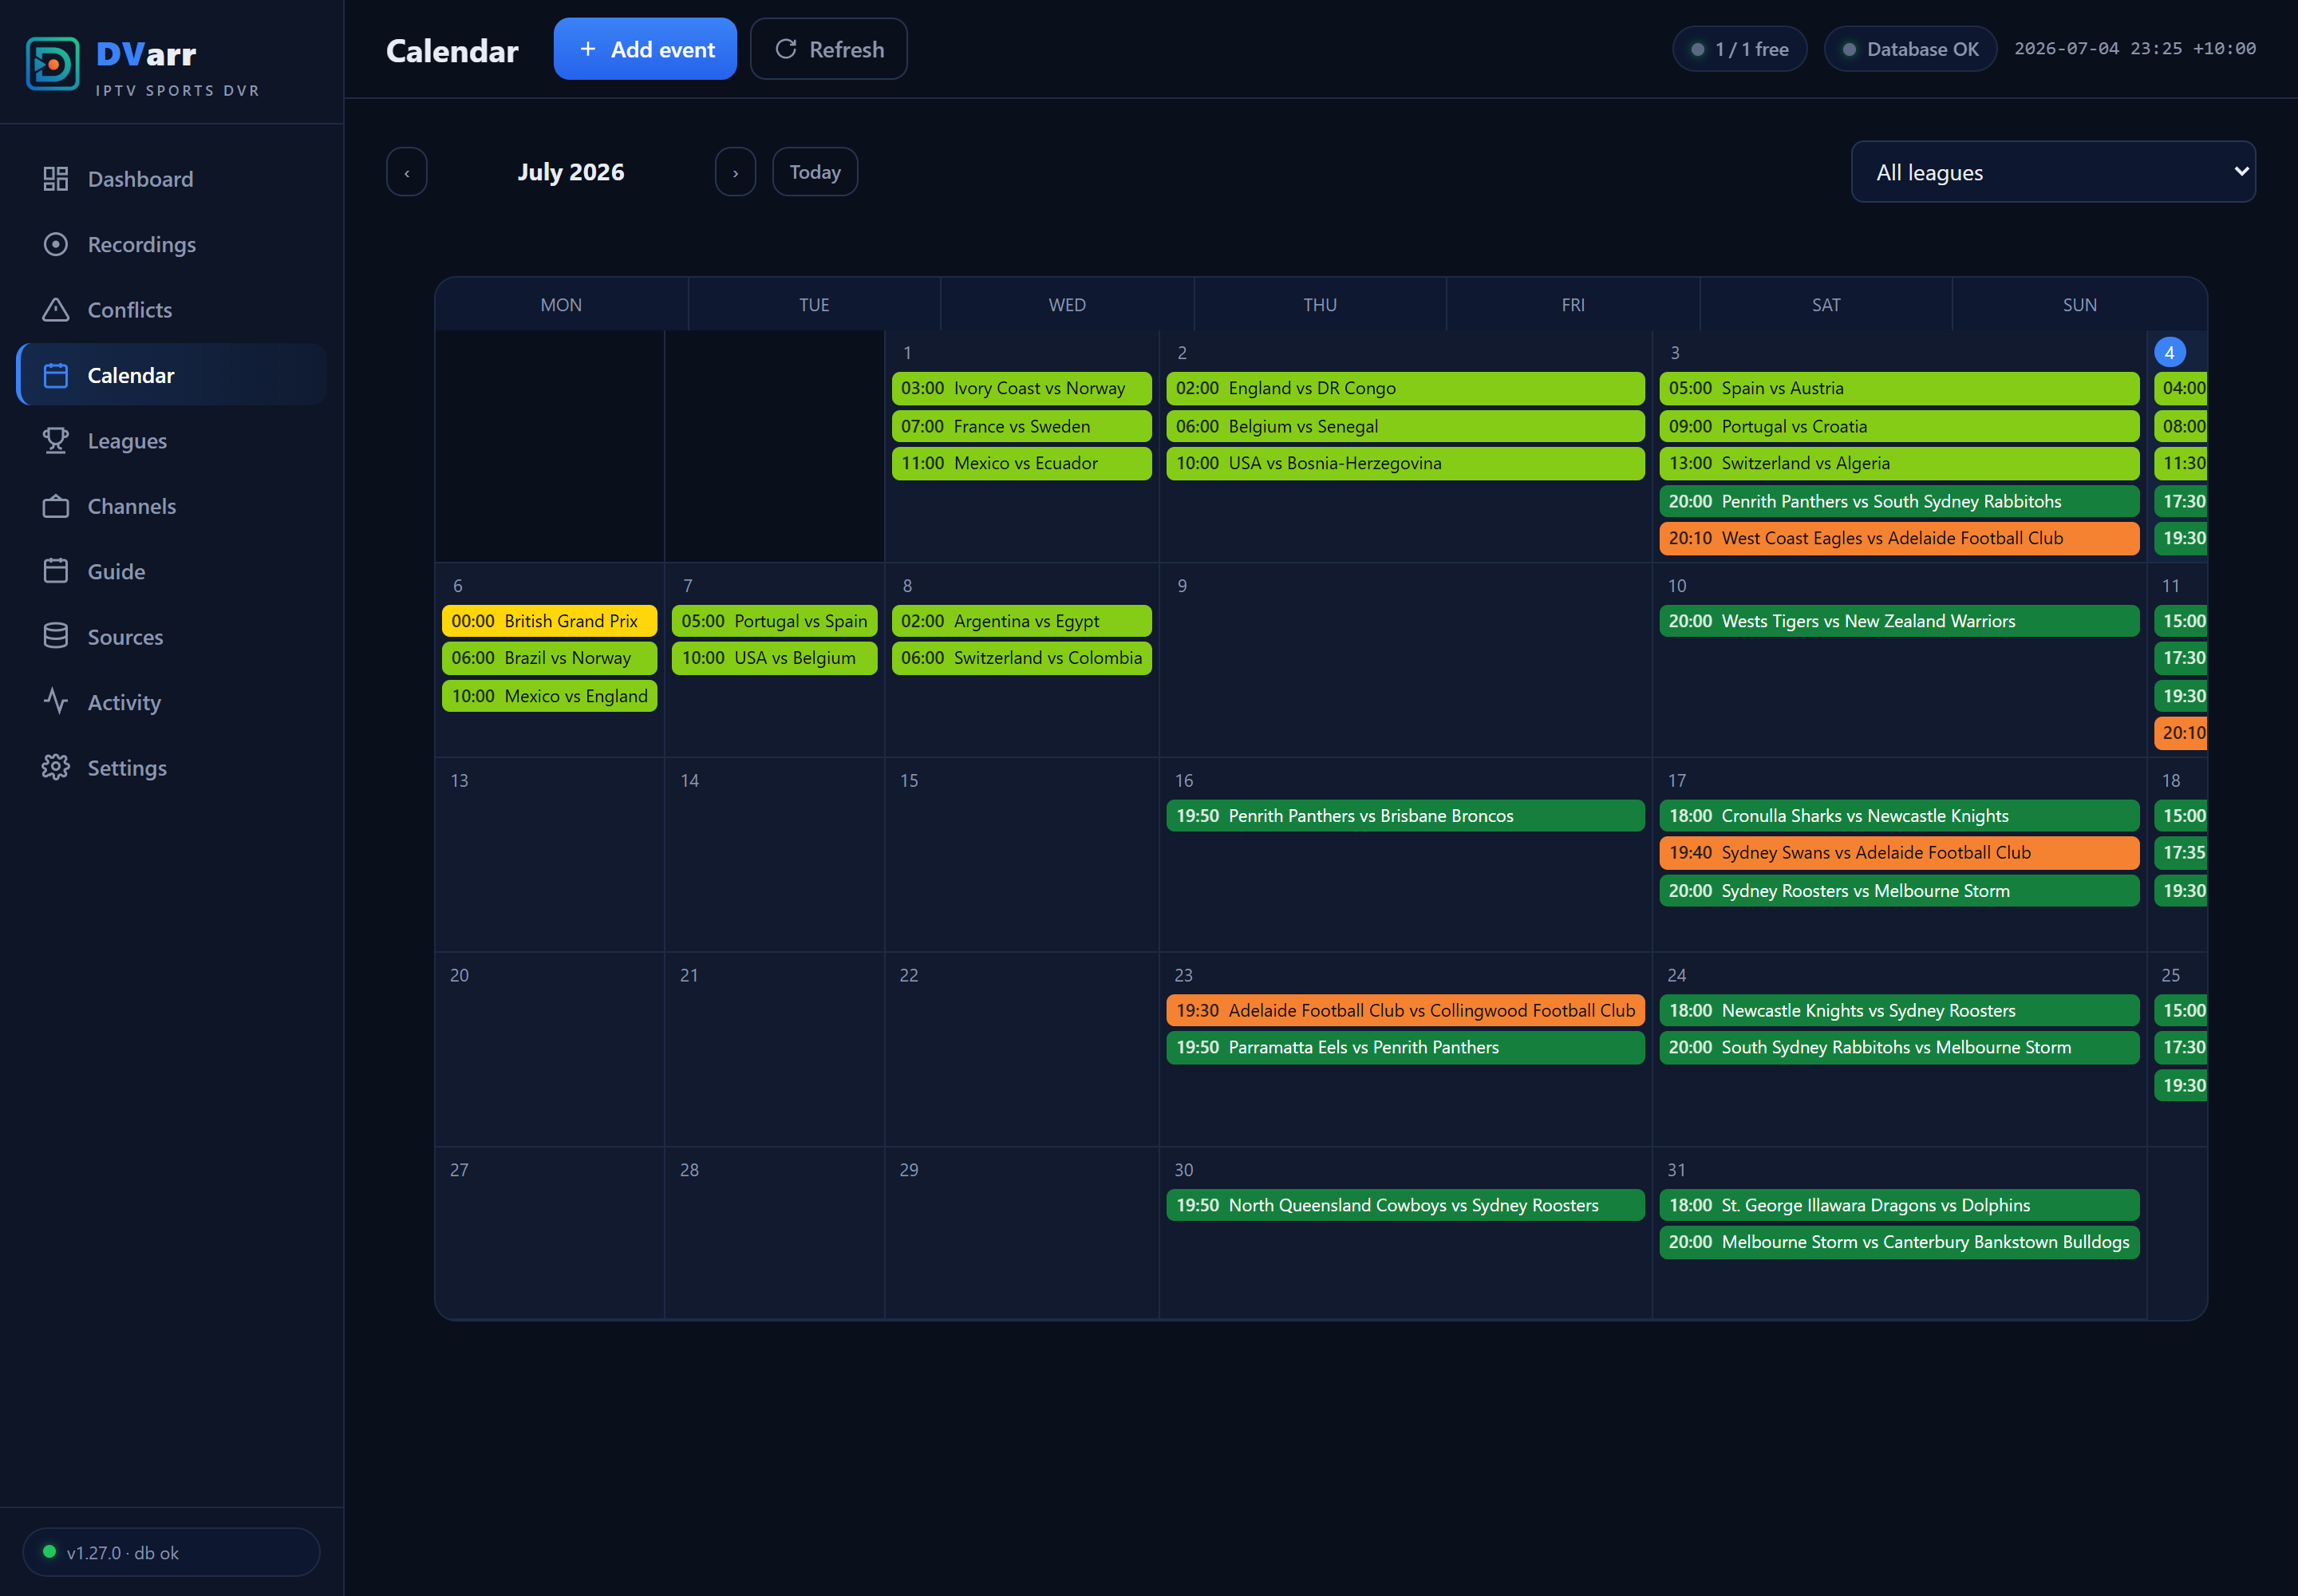
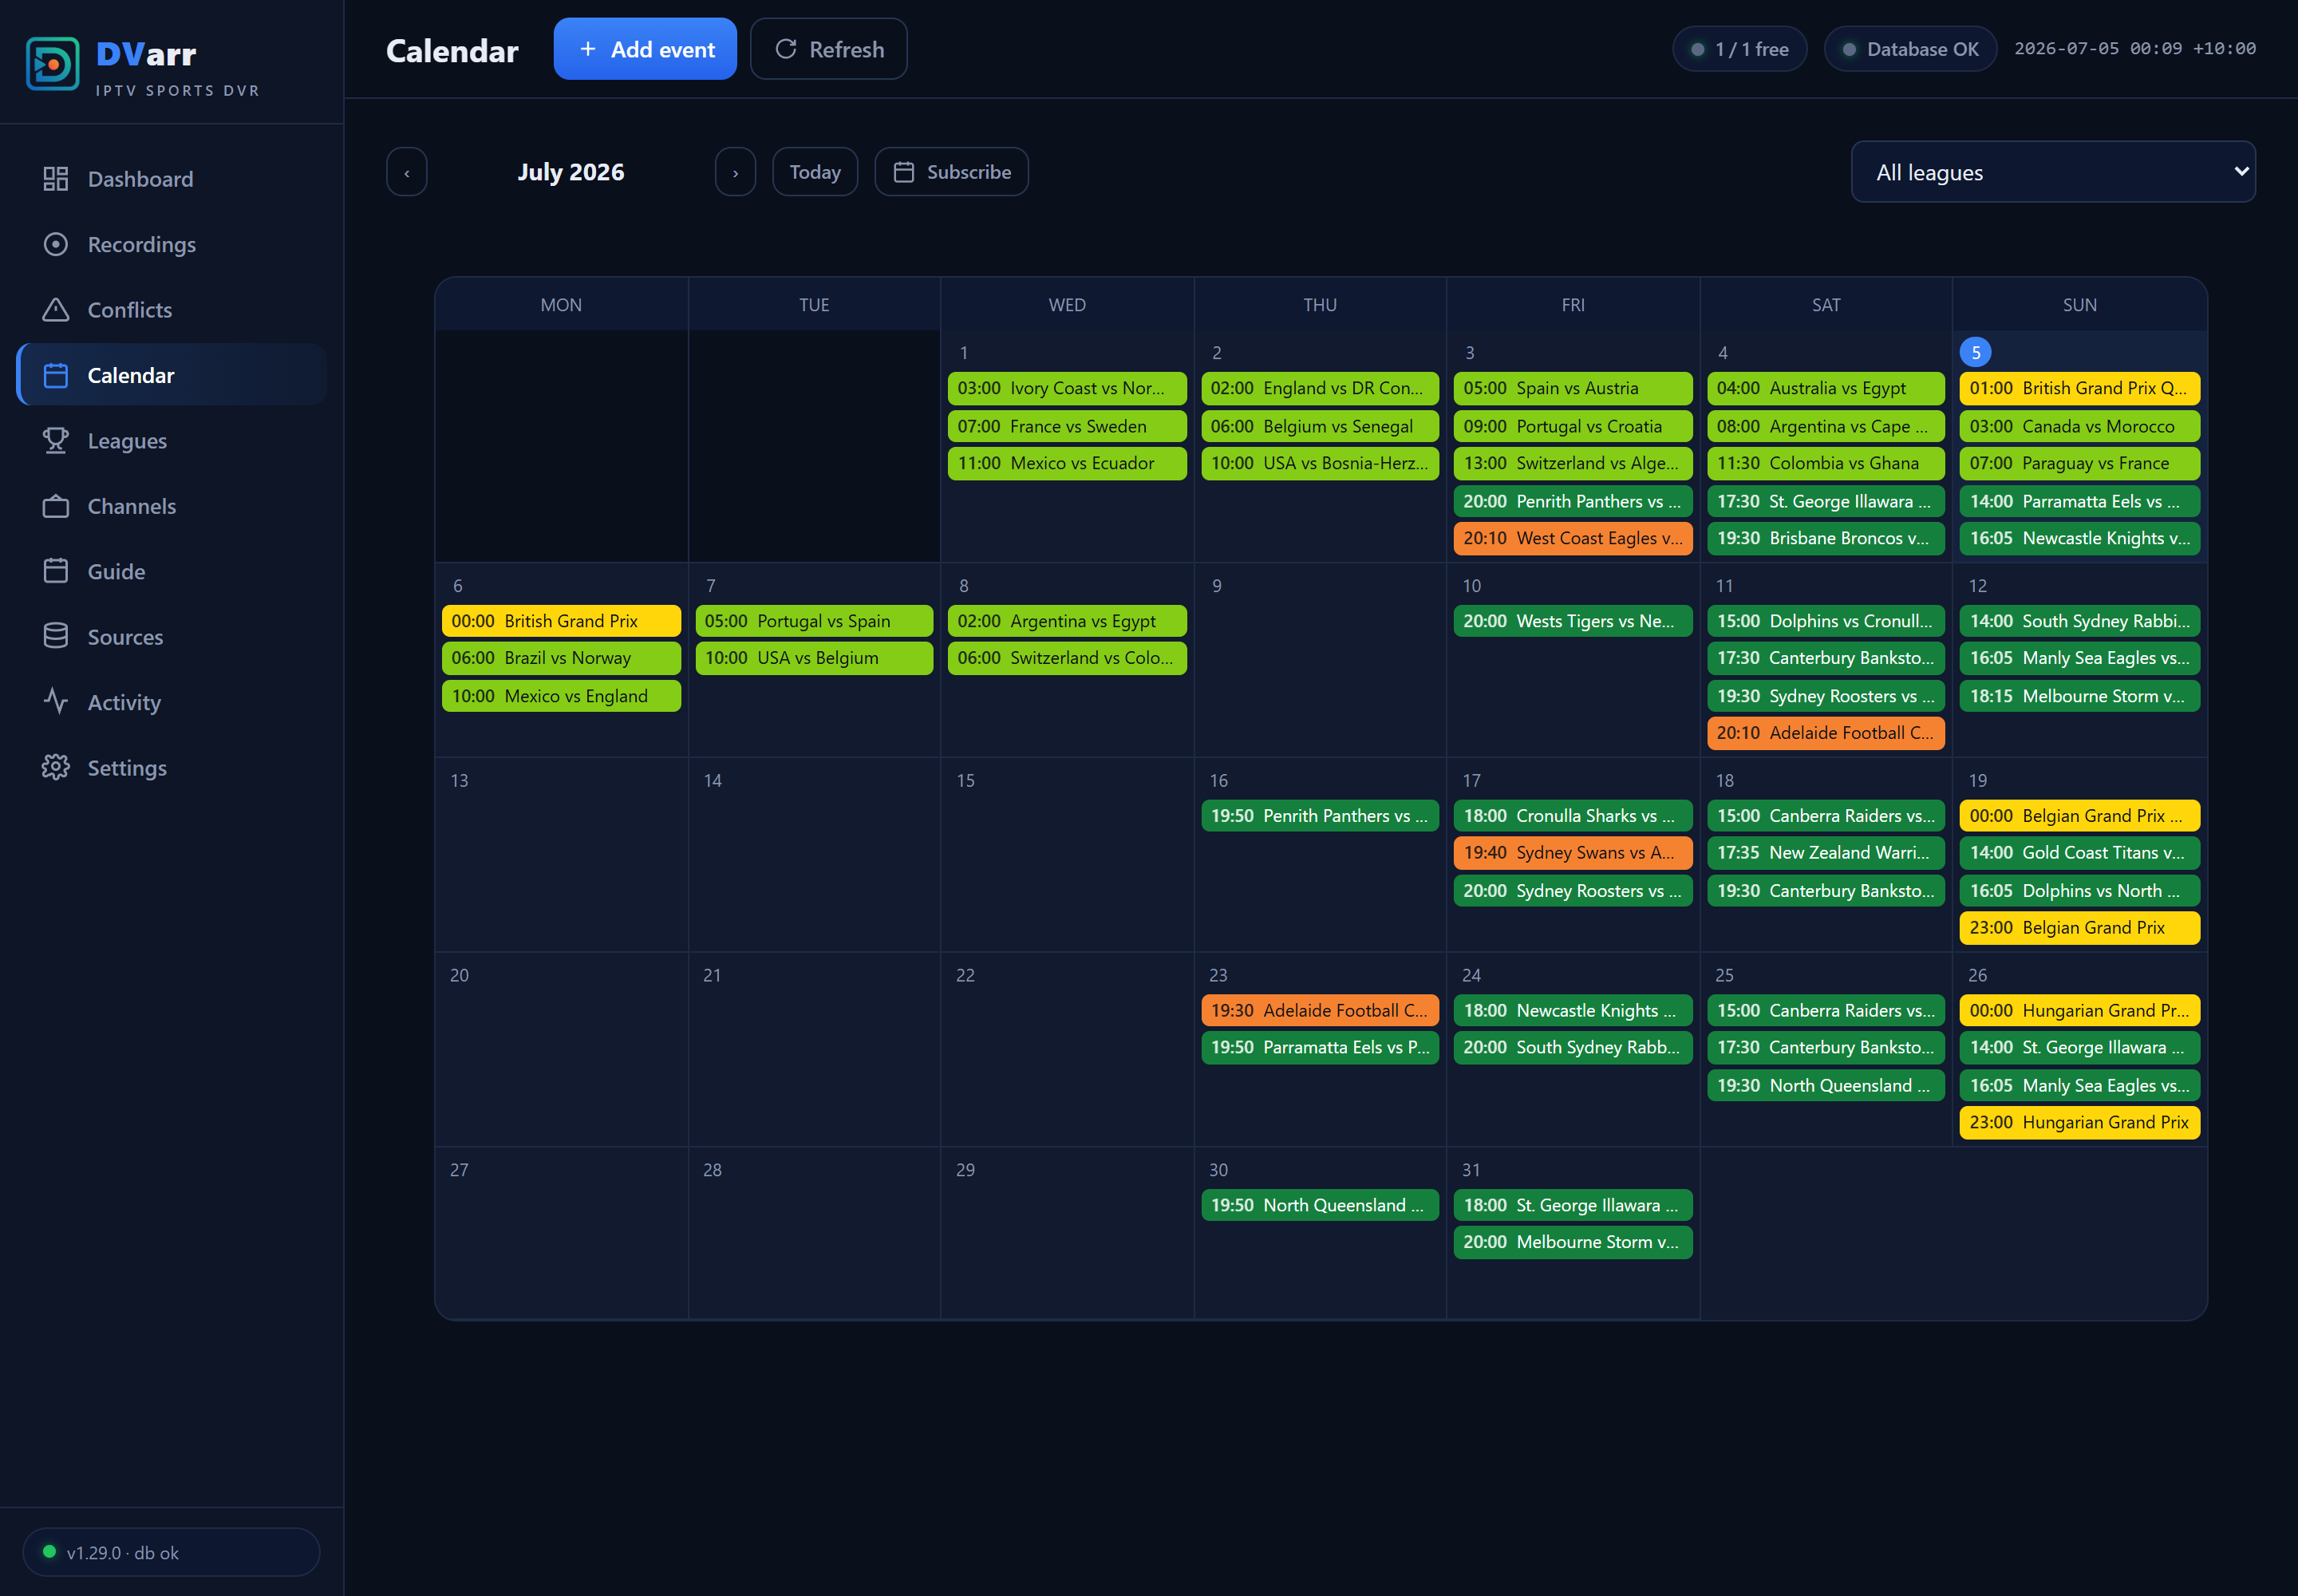
v1.29.0 — Plex settings tab, calendar ICS subscribe, calendar grid fix
- Settings gains a dedicated Plex tab: copyable provider URL, how the
  Custom Metadata Provider works, grounded set-up steps, and the
  provider identifier.
- Calendar toolbar gains a Subscribe button: modal with the token ICS
  feed URL for this device plus a public URL built from the new
  public_base_url setting (settable inline; also under Data sources).
- Calendar month grid no longer overflows its card: day columns are
  minmax(0,1fr) so 1fr tracks can shrink, and event pills ellipsize
  instead of widening their column (the SUN column was getting clipped).
- README: refreshed calendar/settings screenshots, added Plex tab shot.

diff --git a/src/DVarr/wwwroot/js/app.js b/src/DVarr/wwwroot/js/app.js
@@ -111,6 +111,23 @@ function modal(html, width) {
 }
 function closeModals() { stopPreview(); $('#modalRoot').replaceChildren(); }
 
+// Copy text to the clipboard, toasting success/failure. Prefers the async Clipboard API; falls back to selecting a
+// (possibly off-screen) input + execCommand('copy') for older WebViews / non-secure contexts where clipboard is absent.
+// `srcSel` is an optional CSS selector of an existing <input> to select() for the fallback (avoids a flash).
+function copyText(text, srcSel) {
+  const done = () => toast('Copied to clipboard', 'ok');
+  const fallback = () => {
+    let el = srcSel && $(srcSel), temp = null;
+    if (!el) { temp = document.createElement('input'); temp.value = text; temp.style.position = 'fixed'; temp.style.opacity = '0'; document.body.appendChild(temp); el = temp; }
+    el.focus(); el.select();
+    let ok = false; try { ok = document.execCommand('copy'); } catch { ok = false; }
+    if (temp) temp.remove();
+    ok ? done() : toast("Couldn't copy — select the text and copy it manually", 'err');
+  };
+  if (navigator.clipboard && navigator.clipboard.writeText) navigator.clipboard.writeText(text).then(done, fallback);
+  else fallback();
+}
+
 // ---- mobile drawer nav (sidebar slides in over a scrim below ~820px) ----
 // body.drawer-locked freezes page scroll behind the open drawer (class is only ever set on small screens).
 function closeDrawer() { const a = $('.app'); if (a) a.classList.remove('drawer-open'); document.body.classList.remove('drawer-locked'); const h = $('#hamburger'); if (h) h.setAttribute('aria-expanded', 'false'); }
@@ -654,6 +671,7 @@ PAGES.calendar = {
         <div id="calTitle" class="cal-title"></div>
         <button class="ghost sm" id="calNext">›</button>
         <button class="ghost sm" id="calToday">Today</button>
+        <button class="ghost sm" id="calSubscribe" title="Subscribe to this calendar in Google/Apple Calendar">${I.calendar} Subscribe</button>
         <span class="grow"></span>
         <select id="calLeague"><option value="">All leagues</option>${ls.map(l => `<option value="${l.id}" ${String(l.id) === leagueFilter ? 'selected' : ''}>${esc(l.name)}</option>`).join('')}</select>
       </div>
@@ -724,6 +742,7 @@ PAGES.calendar = {
     $('#calPrev').addEventListener('click', () => { if (state.m === 0) { state.m = 11; state.y--; } else state.m--; draw(); });
     $('#calNext').addEventListener('click', () => { if (state.m === 11) { state.m = 0; state.y++; } else state.m++; draw(); });
     $('#calToday').addEventListener('click', () => { const t = bneParts(Math.floor(Date.now() / 1000)); state.y = t.y; state.m = t.m; draw(); });
+    $('#calSubscribe').addEventListener('click', openCalendarFeedModal);
     $('#calLeague').addEventListener('change', () => { state.league = $('#calLeague').value; draw(); });
     await draw();
   },
@@ -741,6 +760,53 @@ function openCalEvent(id) {
       <button class="ghost" onclick="resolvePreview(${e.id})">Resolve</button>
       <button onclick="monitorEvent(${e.id},${!e.monitored})">${e.monitored ? 'Unmonitor' : 'Monitor (auto-record)'}</button>
     </div>`, 'min(480px,94vw)');
+}
+
+// Subscribe (ICS feed): copy-me local + public URLs for Google/Apple Calendar. The feed path (with its private token)
+// comes from GET /api/calendar/url; the public URL prepends the `public_base_url` setting (prompted for if unset).
+async function openCalendarFeedModal() {
+  const [feed, settings] = await Promise.all([api.get('/api/calendar/url'), api.get('/api/settings')]);
+  const path = (feed && feed.url) || '';
+  const publicBase = ((settings && settings.public_base_url) || '').replace(/\/+$/, '');
+  if (!path) { toast('Could not load the calendar link', 'err'); return; }
+  modal(calendarFeedBody(path, publicBase), 'min(560px,94vw)');
+}
+// The modal's inner HTML — re-rendered in place after the public URL is saved so no reopen is needed.
+function calendarFeedBody(path, publicBase) {
+  const local = location.origin + path;
+  const pub = publicBase ? publicBase + path : '';
+  const publicRow = pub
+    ? `<label class="field">Public address <span class="muted">(from any network)</span>
+        <div class="copy-row"><input id="feedPublic" readonly value="${esc(pub)}"/><button class="ghost sm" onclick="copyText($('#feedPublic').value,'#feedPublic')">Copy</button></div>
+        <button class="ghost sm" style="align-self:flex-start;margin-top:6px" onclick="editCalendarPublicBase('${jsq(path)}')">change public address</button></label>`
+    : `<label class="field">Public address <span class="muted">(optional — for subscribing away from home)</span>
+        <div class="muted" style="font-size:12px;margin-bottom:4px">Set your DVarr public URL to build a link that works off your home network.</div>
+        <div class="copy-row"><input id="feedBase" placeholder="https://dvr.example.com"/><button class="ghost sm" onclick="saveCalendarPublicBase('${jsq(path)}')">Save</button></div></label>`;
+  return `<h2>Calendar feed (ICS)</h2>
+    <div class="fields">
+      <div class="muted" style="font-size:12.5px;line-height:1.6">Subscribe to this feed in <b>Google Calendar</b> (Other calendars → From URL) or <b>Apple Calendar</b> to keep every followed event on your phone/PC calendar, refreshed automatically. The link contains a private token — treat it like a password.</div>
+      <label class="field">This address <span class="muted">(on this network)</span>
+        <div class="copy-row"><input id="feedLocal" readonly value="${esc(local)}"/><button class="ghost sm" onclick="copyText($('#feedLocal').value,'#feedLocal')">Copy</button></div></label>
+      ${publicRow}
+    </div>
+    <div class="foot"><button class="ghost" onclick="closeModals()">Close</button></div>`;
+}
+// Validate + persist public_base_url (empty or http(s)://…, trailing slash stripped), then re-render the modal body.
+async function saveCalendarPublicBase(path) {
+  const raw = ($('#feedBase')?.value || '').trim().replace(/\/+$/, '');
+  if (raw && !/^https?:\/\//i.test(raw)) return toast('Public address must start with http:// or https://', 'err');
+  const r = await api.put('/api/settings', { public_base_url: raw });
+  if (r.error) return toast(r.error, 'err');
+  toast('Public address saved', 'ok');
+  const bg = $('.modal-bg'); const box = bg && bg.querySelector('.modal');
+  if (box) box.innerHTML = calendarFeedBody(path, raw) + (box.querySelector('.modal-x')?.outerHTML || '');
+}
+// "change" affordance: blank the setting, re-render the modal back to the input row (user can re-save a new URL).
+async function editCalendarPublicBase(path) {
+  const r = await api.put('/api/settings', { public_base_url: '' });
+  if (r.error) return toast(r.error, 'err');
+  const bg = $('.modal-bg'); const box = bg && bg.querySelector('.modal');
+  if (box) box.innerHTML = calendarFeedBody(path, '') + (box.querySelector('.modal-x')?.outerHTML || '');
 }
 
 // ---- Activity ----
@@ -849,6 +915,7 @@ const SETTINGS_META = {
   ] },
   thesportsdb_api_key: { g: 'TheSportsDB', t: 'TheSportsDB API key', h: 'Your premium TheSportsDB (v2) key — required to browse leagues and sync fixtures.', ty: 'text' },
   ha_webhook_url: { g: 'Integrations', t: 'Home Assistant webhook', h: 'Webhook URL to push recording state changes to Home Assistant. Blank = off.', ty: 'url' },
+  public_base_url: { g: 'Integrations', t: 'Public base URL', h: 'Externally-reachable URL of this DVarr (e.g. https://dvr.example.com), used to build the away-from-home calendar-feed link. Blank = off.', ty: 'url' },
   default_channel_source_filter: { g: 'Display', t: 'Default channel filter', h: 'Which source’s channels to show by default (“all” or a source id).', ty: 'text' },
   timezone_display: { g: 'Display', t: 'Display timezone', h: 'IANA timezone used to show times (e.g. Australia/Brisbane).', ty: 'text' },
   litestream_target: { g: 'Backups', t: 'Litestream backup target', h: 'Continuous database backup destination (e.g. s3://bucket/path). Blank = off.', ty: 'url' },
@@ -877,9 +944,12 @@ PAGES.settings = {
     const buckets = {}; SETTINGS_TABS.forEach(t => buckets[t] = []);
     Object.keys(SETTINGS_META).filter(k => k in s).forEach(k => buckets[GROUP_TAB[SETTINGS_META[k].g] || 'Advanced'].push(k));
     Object.keys(s).filter(k => !SETTINGS_META[k] && !HIDDEN.includes(k)).forEach(k => buckets['Advanced'].push(k));
-    const tabs = SETTINGS_TABS.filter(t => buckets[t].length);
+    // "Plex" is a fixed info-only tab (no settings keys) whose pane is custom HTML, not the generic set-grid — appended
+    // after the key-driven tabs so it always shows regardless of which settings exist.
+    const PLEX_TAB = 'Plex';
+    const tabs = [...SETTINGS_TABS.filter(t => buckets[t].length), PLEX_TAB];
     const nav = `<div class="tab-nav">${tabs.map((t, i) => `<button class="tab-btn${i === 0 ? ' active' : ''}" data-tab="${esc(t)}">${esc(t)}</button>`).join('')}</div>`;
-    const panes = tabs.map((t, i) => `<div class="tab-pane${i === 0 ? ' active' : ''}" data-tab="${esc(t)}"><div class="set-grid">${buckets[t].map(k => settingField(k, s[k])).join('')}</div></div>`).join('');
+    const panes = tabs.map((t, i) => `<div class="tab-pane${i === 0 ? ' active' : ''}" data-tab="${esc(t)}">${t === PLEX_TAB ? plexSettingsPane() : `<div class="set-grid">${buckets[t].map(k => settingField(k, s[k])).join('')}</div>`}</div>`).join('');
     el.innerHTML = `<div class="settings-wrap">${nav}${panes}
       <div class="row" style="margin:18px 0 28px"><button onclick="saveSettings()">Save settings</button><span id="setMsg" class="muted"></span></div></div>`;
     el.querySelectorAll('.tab-btn').forEach(b => b.addEventListener('click', () => {
@@ -888,6 +958,29 @@ PAGES.settings = {
     }));
   },
 };
+
+// Settings → Plex: info-only pane. The provider URL (location.origin + '/plex') + how the Custom Metadata Provider
+// works + set-up steps, all grounded in PlexEndpoints.cs (the /plex agent) and MediaImportService.cs (the on-disk
+// League/Season/event layout + .unsorted staging).
+function plexSettingsPane() {
+  const url = location.origin + '/plex';
+  return `<div style="max-width:720px">
+    <label class="field" style="margin-bottom:6px">Provider URL <span class="muted">(paste this into Plex)</span>
+      <div class="copy-row"><input id="plexUrl" readonly value="${esc(url)}"/><button class="ghost sm" onclick="copyText($('#plexUrl').value,'#plexUrl')">Copy</button></div></label>
+    <div class="muted" style="font-size:12px;margin-bottom:16px">Give Plex an address it can reach on the LAN — if you're viewing DVarr through the public domain, swap in the server's LAN IP (e.g. <span class="mono">http://192.168.x.x:1867/plex</span>).</div>
+
+    <div class="note" style="margin-bottom:14px"><b>How it works.</b> DVarr files finished recordings into the media folder as <span class="mono">League / Season &lt;year&gt; / &lt;event&gt; …</span> (Sonarr/Plex-style), and exposes a Plex <b>Custom Metadata Provider</b> at <span class="mono">/plex</span>. When Plex scans that library with the DVarr provider selected, it asks DVarr to match each folder/file and DVarr answers with real event metadata — league poster/artwork, event title, date, and season/episode numbering — sourced from TheSportsDB. The <span class="mono">/plex</span> surface is deliberately login-exempt so a LAN Plex server can reach it without credentials (it serves public sports metadata only).</div>
+
+    <b style="font-size:13px">Set-up</b>
+    <ol class="plex-steps">
+      <li>In Plex, create or edit a <b>TV Shows</b> library pointing at DVarr's media folder (where recordings are filed).</li>
+      <li>Add the Provider URL above as a <b>custom metadata provider</b> for that library, then select the DVarr provider as the library's <b>agent</b>.</li>
+      <li><b>Scan</b> the library — Plex matches each <span class="mono">League/Season &lt;year&gt;/&lt;event&gt;</span> folder against DVarr and pulls in the artwork, titles, dates and season/episode numbers.</li>
+    </ol>
+    <div class="note" style="margin-top:14px">Only <b>event-linked</b> recordings are filed and matchable — schedule them from a monitored league/event, or attach one to a game via <b>Import</b>. A manual recording with no event sits in a <span class="mono">.unsorted</span> folder that Plex ignores until you Import it.</div>
+    <div class="muted" style="font-size:11px;margin-top:10px">Provider identifier: <span class="mono">tv.plex.agents.custom.dvarr.sports</span></div>
+  </div>`;
+}
 
 function emptyBox(msg) { return `<div class="empty">${I.recordings}<div>${esc(msg)}</div></div>`; }
 
@@ -1467,6 +1560,7 @@ window.syncEpg = syncEpg; window.doSyncEpg = doSyncEpg; window.openSourceModal =
 window.openLeagueModal = openLeagueModal; window.submitLeague = submitLeague; window.deleteLeague = deleteLeague; window.syncLeague = syncLeague;
 window.openMapModal = openMapModal; window.submitMap = submitMap; window.deleteMapping = deleteMapping;
 window.openEventModal = openEventModal; window.submitEvent = submitEvent; window.monitorEvent = monitorEvent; window.resolvePreview = resolvePreview; window.openCalEvent = openCalEvent;
+window.copyText = copyText; window.openCalendarFeedModal = openCalendarFeedModal; window.saveCalendarPublicBase = saveCalendarPublicBase; window.editCalendarPublicBase = editCalendarPublicBase;
 
 buildNav();
 // Mobile drawer wiring (hamburger toggles, scrim or a nav choice closes it).

diff --git a/src/DVarr/wwwroot/styles.css b/src/DVarr/wwwroot/styles.css
@@ -233,6 +233,14 @@ label.field { display:flex; flex-direction:column; gap:5px; font-size:12px; colo
 .set-row { display:flex; flex-direction:column; gap:3px; }
 .set-row > input, .set-row > select, .set-row > textarea { width:100%; }
 
+/* Copy-row: a readonly URL input + a Copy button on one line (ICS-feed modal + Plex settings pane). The input
+   flexes to fill and truncates; the button never shrinks. min-width:0 lets the input shrink instead of overflowing. */
+.copy-row { display:flex; gap:8px; align-items:center; }
+.copy-row input { flex:1 1 auto; min-width:0; }
+.copy-row button { flex:0 0 auto; }
+.plex-steps { margin:8px 0 0; padding-left:22px; font-size:12.5px; line-height:1.6; }
+.plex-steps li { margin-bottom:6px; }
+
 /* ---- guide timeline ---- */
 .guide-legend { display:flex; align-items:center; gap:14px; margin:12px 0 10px; font-size:12px; color:var(--dim); flex-wrap:wrap; }
 .guide-legend .lg { display:inline-flex; align-items:center; gap:6px; }
@@ -269,18 +277,22 @@ label.field { display:flex; flex-direction:column; gap:5px; font-size:12px; colo
 .cal-toolbar { align-items:center; }
 .cal-title { font-weight:700; font-size:15px; min-width:160px; text-align:center; }
 .cal-grid { border:1px solid var(--line); border-radius:14px; overflow:hidden; background:var(--panel); }
-.cal-head { display:grid; grid-template-columns:repeat(7,1fr); background:var(--head-bg); }
+/* minmax(0,1fr) on BOTH tracks: a plain 1fr can't shrink below its content min-width, so a long event pill
+   (nowrap) forces the column wider and the SUN column spills past the card's right edge. minmax(0,…) lets each
+   day track shrink to 0 and the pill ellipsizes inside it (see .cal-cell/.cal-ev min-width:0 below). */
+.cal-head { display:grid; grid-template-columns:repeat(7,minmax(0,1fr)); background:var(--head-bg); }
 .cal-head > div { padding:8px; text-align:center; font-size:11px; text-transform:uppercase; color:var(--dim); border-right:1px solid var(--line); }
 .cal-head > div:last-child { border-right:none; }
-.cal-body { display:grid; grid-template-columns:repeat(7,1fr); }
-.cal-cell { min-height:108px; border-right:1px solid var(--line); border-bottom:1px solid var(--line); padding:4px; display:flex; flex-direction:column; gap:3px; }
+.cal-body { display:grid; grid-template-columns:repeat(7,minmax(0,1fr)); }
+.cal-cell { min-width:0; min-height:108px; border-right:1px solid var(--line); border-bottom:1px solid var(--line); padding:4px; display:flex; flex-direction:column; gap:3px; }
 .cal-cell:nth-child(7n) { border-right:none; }
 .cal-cell.empty-cell { background:var(--bg); }
 .cal-cell.today { background:rgba(59,130,246,.08); }
 .cal-cell.today .cal-daynum { background:var(--acc); color:#fff; }
 .cal-daynum { font-size:11px; color:var(--dim); align-self:flex-start; min-width:20px; text-align:center; border-radius:10px; padding:1px 5px; }
-.cal-events { display:flex; flex-direction:column; gap:3px; overflow:hidden; }
-.cal-ev { font-size:11px; padding:2px 6px; border-radius:5px; cursor:pointer; white-space:nowrap; overflow:hidden; text-overflow:ellipsis; line-height:1.5; }
+.cal-events { display:flex; flex-direction:column; gap:3px; overflow:hidden; min-width:0; }
+/* min-width:0 lets the pill ellipsize instead of establishing the column's min-width (which would widen the grid). */
+.cal-ev { min-width:0; font-size:11px; padding:2px 6px; border-radius:5px; cursor:pointer; white-space:nowrap; overflow:hidden; text-overflow:ellipsis; line-height:1.5; }
 .cal-ev:hover { filter:brightness(1.12); }
 .cal-ev-t { font-variant-numeric:tabular-nums; opacity:.85; font-weight:600; margin-right:3px; }
 

diff --git a/src/DVarr/wwwroot/sw.js b/src/DVarr/wwwroot/sw.js
@@ -2,7 +2,7 @@
 // DVarr service worker — makes the app installable + loads the shell instantly (and offline) over the VPN.
 // Strategy: stale-while-revalidate for the static app shell; the /api/* surface (live data, SSE, preview streams)
 // is NEVER cached or intercepted so the UI always shows real-time state. Bump VERSION on each release to purge old shells.
-const VERSION = 'dvarr-shell-v1.28.0';
+const VERSION = 'dvarr-shell-v1.29.0';
 const SHELL = [
   '/', '/index.html', '/styles.css',
   '/js/app.js', '/js/mpegts.js', '/js/hls.js',

diff --git a/src/DVarr/Services/SettingsService.cs b/src/DVarr/Services/SettingsService.cs
@@ -100,6 +100,10 @@ public sealed class SettingsService
         ["default_channel_source_filter"] = "all",
         ["timezone_display"] = "Australia/Brisbane",
         ["ha_webhook_url"] = "",
+        // Public base URL of this DVarr instance (e.g. https://dvr.example.com), used to build the externally-reachable
+        // calendar-feed link shown in the "Subscribe" modal. Empty by default — the UI prompts for it there. A text
+        // setting whose default must NOT look numeric, or the /api/settings int-guard would reject a real URL.
+        ["public_base_url"] = "",
         ["litestream_target"] = "",
     };
 

diff --git a/CHANGELOG.md b/CHANGELOG.md
@@ -12,6 +12,16 @@ Dates are Brisbane (UTC+10). The version is reported on `/api/health` and comes 
 
 ---
 
+## [1.29.0] — 2026-07-05
+Plex made discoverable · calendar feed made copyable · calendar layout fix.
+
+### Added
+- **Settings → Plex tab.** A dedicated tab explains the Plex Custom Metadata Provider end-to-end: the provider URL with a Copy button (plus the LAN-address note for public-domain visitors), how the matching works (DVarr files recordings Sonarr/Plex-style and answers Plex's metadata requests with real event data from TheSportsDB), the three set-up steps, and the provider identifier for reference.
+- **Calendar → Subscribe button.** The token ICS feed is now self-serve: a modal shows the feed address for this device with a Copy button, and a **public address** built from the new `public_base_url` setting (settable right in the modal) for subscribing from Google/Apple Calendar outside the LAN.
+
+### Fixed
+- **Calendar month grid overflow**: the 7 day columns used `1fr` tracks, which can't shrink below the widest event pill — long titles pushed the Sunday column past the card edge. Columns are now `minmax(0,1fr)` and event titles ellipsize inside their day cell, so the grid always aligns with the toolbar.
+
 ## [1.28.0] — 2026-07-04
 Session-smart recording lengths · repo cleanup + new README.
 

diff --git a/README.md b/README.md
@@ -43,9 +43,13 @@ DVarr watches the leagues you follow on [TheSportsDB](https://www.thesportsdb.co
 
 ![Guide](.github/media/guide.png)
 
-### Calendar — every followed event at a glance (plus an ICS feed for Google Calendar)
+### Calendar — every followed event at a glance (one-click ICS subscribe for Google/Apple Calendar)
 
 ![Calendar](.github/media/calendar.png)
+
+### Plex — a built-in metadata provider, explained right in Settings
+
+![Plex settings](.github/media/settings-plex.png)
 
 ### Recordings & Settings
 